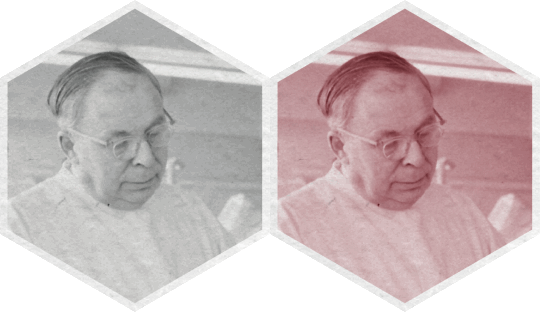
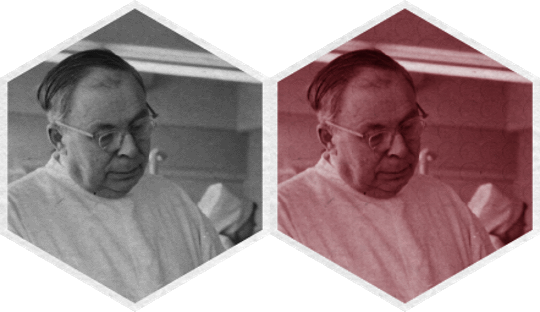
Headera attēli nomainās ar fade; Pievienota avīzes ikona; Samainītas nederīgās menu ikonas.

diff --git a/wp-content/themes/the-box/js/main.js b/wp-content/themes/the-box/js/main.js
@@ -11,10 +11,10 @@ $(window).load(function() {
         });
     }
     if(isMobile) preload([
-//        URLS.stylesheet + '/images/ui/mobile/readmore.png', URLS.stylesheet + '/images/ui/mobile/aboutvid.png', URLS.stylesheet + '/images/ui/mobile/archive.png', URLS.stylesheet + '/images/ui/mobile/audio.png', URLS.stylesheet + '/images/ui/mobile/citation.png', URLS.stylesheet + '/images/ui/mobile/closer.png', URLS.stylesheet + '/images/ui/mobile/continue.png', URLS.stylesheet + '/images/ui/mobile/draugiem.png', URLS.stylesheet + '/images/ui/mobile/fb.png', URLS.stylesheet + '/images/ui/mobile/gallery.png', URLS.stylesheet + '/images/ui/mobile/gallery_control.png', URLS.stylesheet + '/images/ui/mobile/gallery_counter.png', URLS.stylesheet + '/images/ui/mobile/gallery_loading.gif', URLS.stylesheet + '/images/ui/mobile/gplus.png', URLS.stylesheet + '/images/ui/mobile/header_pattern.png', URLS.stylesheet + '/images/ui/mobile/humor.png', URLS.stylesheet + '/images/ui/mobile/line_pattern.png', URLS.stylesheet + '/images/ui/mobile/menu_toggle.png', URLS.stylesheet + '/images/ui/mobile/navtree_bg.png', URLS.stylesheet + '/images/ui/mobile/navtree_bg1.png', URLS.stylesheet + '/images/ui/mobile/navtree_end.png', URLS.stylesheet + '/images/ui/mobile/objects.png', URLS.stylesheet + '/images/ui/mobile/popup_close.png', URLS.stylesheet + '/images/ui/mobile/readmore.png', URLS.stylesheet + '/images/ui/mobile/readmore_big.png', URLS.stylesheet + '/images/ui/mobile/slideout_bg.png', URLS.stylesheet + '/images/ui/mobile/slideout_bg_flip.png', URLS.stylesheet + '/images/ui/mobile/twitter.png'
+//        URLS.stylesheet + '/images/ui/mobile/readmore.png', URLS.stylesheet + '/images/ui/mobile/aboutvid.png', URLS.stylesheet + '/images/ui/mobile/archive.png', URLS.stylesheet + '/images/ui/mobile/audio.png', URLS.stylesheet + '/images/ui/mobile/citation.png', URLS.stylesheet + '/images/ui/mobile/magazine.png', URLS.stylesheet + '/images/ui/mobile/continue.png', URLS.stylesheet + '/images/ui/mobile/draugiem.png', URLS.stylesheet + '/images/ui/mobile/fb.png', URLS.stylesheet + '/images/ui/mobile/gallery.png', URLS.stylesheet + '/images/ui/mobile/gallery_control.png', URLS.stylesheet + '/images/ui/mobile/gallery_counter.png', URLS.stylesheet + '/images/ui/mobile/gallery_loading.gif', URLS.stylesheet + '/images/ui/mobile/gplus.png', URLS.stylesheet + '/images/ui/mobile/header_pattern.png', URLS.stylesheet + '/images/ui/mobile/humor.png', URLS.stylesheet + '/images/ui/mobile/line_pattern.png', URLS.stylesheet + '/images/ui/mobile/menu_toggle.png', URLS.stylesheet + '/images/ui/mobile/navtree_bg.png', URLS.stylesheet + '/images/ui/mobile/navtree_bg1.png', URLS.stylesheet + '/images/ui/mobile/navtree_end.png', URLS.stylesheet + '/images/ui/mobile/objects.png', URLS.stylesheet + '/images/ui/mobile/popup_close.png', URLS.stylesheet + '/images/ui/mobile/readmore.png', URLS.stylesheet + '/images/ui/mobile/readmore_big.png', URLS.stylesheet + '/images/ui/mobile/slideout_bg.png', URLS.stylesheet + '/images/ui/mobile/slideout_bg_flip.png', URLS.stylesheet + '/images/ui/mobile/twitter.png'
     ]);
     else preload([
-        URLS.stylesheet + '/images/ui/readmore_big.png', URLS.stylesheet + '/images/ui/aboutvid.png', URLS.stylesheet + '/images/ui/archive.png', URLS.stylesheet + '/images/ui/audio.png', URLS.stylesheet + '/images/ui/citation.png', URLS.stylesheet + '/images/ui/closer.png', URLS.stylesheet + '/images/ui/continue.png', URLS.stylesheet + '/images/ui/draugiem.png', URLS.stylesheet + '/images/ui/fb.png', URLS.stylesheet + '/images/ui/gallery.png', URLS.stylesheet + '/images/ui/gallery_control.png', URLS.stylesheet + '/images/ui/gallery_counter.png', URLS.stylesheet + '/images/ui/gallery_loading.gif', URLS.stylesheet + '/images/ui/gplus.png', URLS.stylesheet + '/images/ui/header_pattern.png', URLS.stylesheet + '/images/ui/humor.png', URLS.stylesheet + '/images/ui/line_pattern.png', URLS.stylesheet + '/images/ui/menu_toggle.png', URLS.stylesheet + '/images/ui/navtree_bg.png', URLS.stylesheet + '/images/ui/navtree_bg1.png', URLS.stylesheet + '/images/ui/navtree_end.png', URLS.stylesheet + '/images/ui/objects.png', URLS.stylesheet + '/images/ui/popup_close.png', URLS.stylesheet + '/images/ui/readmore.png', URLS.stylesheet + '/images/ui/readmore_big.png', URLS.stylesheet + '/images/ui/slideout_bg.png', URLS.stylesheet + '/images/ui/slideout_bg_flip.png', URLS.stylesheet + '/images/ui/twitter.png'
+        URLS.stylesheet + '/images/ui/readmore_big.png', URLS.stylesheet + '/images/ui/aboutvid.png', URLS.stylesheet + '/images/ui/archive.png', URLS.stylesheet + '/images/ui/audio.png', URLS.stylesheet + '/images/ui/citation.png', URLS.stylesheet + '/images/ui/magazine.png', URLS.stylesheet + '/images/ui/continue.png', URLS.stylesheet + '/images/ui/draugiem.png', URLS.stylesheet + '/images/ui/fb.png', URLS.stylesheet + '/images/ui/gallery.png', URLS.stylesheet + '/images/ui/gallery_control.png', URLS.stylesheet + '/images/ui/gallery_counter.png', URLS.stylesheet + '/images/ui/gallery_loading.gif', URLS.stylesheet + '/images/ui/gplus.png', URLS.stylesheet + '/images/ui/header_pattern.png', URLS.stylesheet + '/images/ui/humor.png', URLS.stylesheet + '/images/ui/line_pattern.png', URLS.stylesheet + '/images/ui/menu_toggle.png', URLS.stylesheet + '/images/ui/navtree_bg.png', URLS.stylesheet + '/images/ui/navtree_bg1.png', URLS.stylesheet + '/images/ui/navtree_end.png', URLS.stylesheet + '/images/ui/objects.png', URLS.stylesheet + '/images/ui/popup_close.png', URLS.stylesheet + '/images/ui/readmore.png', URLS.stylesheet + '/images/ui/readmore_big.png', URLS.stylesheet + '/images/ui/slideout_bg.png', URLS.stylesheet + '/images/ui/slideout_bg_flip.png', URLS.stylesheet + '/images/ui/twitter.png'
     ]);
 
     // console.log(URLS.stylesheet);
@@ -413,7 +413,7 @@ function mInit() {
             else if (popupBtn.hasClass('humor')){
                 $('#colorbox .citation_logo').attr('id', 'humicon');
             }
-            else if (popupBtn.hasClass('closer')){
+            else if (popupBtn.hasClass('magazine')){
                 $('#colorbox .citation_logo').attr('id', 'cloicon');
             }
             else if(popupBtn.hasClass('aboutvid')){
@@ -570,7 +570,7 @@ function mInit() {
             else if (popupBtn.hasClass('humor')){
                 $('.lg-outer .citation_logo').attr('id', 'humicon');
             }
-            else if (popupBtn.hasClass('closer')){
+            else if (popupBtn.hasClass('magazine')){
                 $('.lg-outer .citation_logo').attr('id', 'cloicon');
             }
         $('.lg-close').detach().appendTo($('.lg-backdrop.in'));

diff --git a/wp-content/plugins/dynamicContent/js/content.js b/wp-content/plugins/dynamicContent/js/content.js
@@ -526,8 +526,6 @@ var Content = Class.extend({
                 bgElem.css('background-image', 'url(' + URLS.stylesheet + '/images/background/mobile/' + item.post_name + '.jpg)');
             } else if (item.template === "templates/menu.php" || item.template === "templates/menu2.php") {
                 bgElem.css('background-image', 'url(' + URLS.stylesheet + '/images/background/mobile/mcardboard.jpg)');
-            } else if (~item.post_name.indexOf('dzimta')) {
-                bgElem.css('background-image', 'url(' + URLS.stylesheet + '/images/background/mobile/dzimta.jpg)');
             } else if (item.template === 'templates/video.php') {
                 var iframe = $('iframe:first');
                 var iframe_src = iframe.attr('src');
@@ -544,7 +542,8 @@ var Content = Class.extend({
             } else bgElem.css('background-image', 'none');
         }
         else{
-            var bgElem = $('.head_image div.layer');
+            var bgElem = $('.head_image div.layer.inactive');
+            var bgAct = $('.head_image div.layer.active');
             if(bgElem.length){
                 if(dynamicContent.getByMenuID(item.menu_item_parent)) var parent = dynamicContent.getByMenuID(item.menu_item_parent);
                 else var parent = dynamicContent.getItemByUrl('titullapa');
@@ -571,6 +570,12 @@ var Content = Class.extend({
                 }
                 else bgElem.css('background-image', 'url(' + URLS.stylesheet + '/images/background/default.jpg)');
             }
+            bgElem.css('opacity', 1);
+            setTimeout(function(){bgAct.css('opacity', 0);}, 750);
+            bgElem.removeClass('inactive');
+            bgAct.removeClass('active');
+            bgElem.addClass('active');
+            bgAct.addClass('inactive');
         }
     },
     setMobilePopups: function(){
@@ -606,9 +611,9 @@ var Content = Class.extend({
                 $('#popupbar li:has(a.humor').hide();
                 $('#popupbar').append('<li><div class="humor obj_icon" data-class="humor"></div></li>'); 
             }
-            if ($('#popupbar a.closer').length>1){
-                $('#popupbar li:has(a.closer)').hide();
-                $('#popupbar').append('<li><div class="humor obj_icon" data-class="closer"></div></li>'); 
+            if ($('#popupbar a.magazine').length>1){
+                $('#popupbar li:has(a.magazine)').hide();
+                $('#popupbar').append('<li><div class="humor obj_icon" data-class="magazine"></div></li>'); 
             }
             var mainIcon = $('.icon_midleft, .icon_midright, .icon_topright, .icon_topmid, .icon_topleft, .icon_botleft, .icon_botright, .icon_botmid, .icon_belowtopright, .icon_belowtopleft');
             if(mainIcon.hasClass('gallery')){
@@ -626,8 +631,8 @@ var Content = Class.extend({
             else if(mainIcon.hasClass('humor')){
                  $('#popupbar li:has(a.humor)').detach().prependTo($('#popupbar'));
             }
-            else if(mainIcon.hasClass('closer')){
-                 $('#popupbar li:has(a.closer)').detach().prependTo($('#popupbar'));
+            else if(mainIcon.hasClass('magazine')){
+                 $('#popupbar li:has(a.magazine)').detach().prependTo($('#popupbar'));
             }
                 
                 
@@ -660,7 +665,7 @@ var Content = Class.extend({
                     else if (classname === "humor"){
                         $('#popupgroup .citation_logo').attr('id', 'humicon');
                     }
-                    else if (classname === "closer"){
+                    else if (classname === "magazine"){
                         $('#popupgroup .citation_logo').attr('id', 'cloicon');
                     }
                     else if (classname === "audio"){

diff --git a/wp-content/themes/the-box-child/style.css b/wp-content/themes/the-box-child/style.css
@@ -480,12 +480,19 @@ p{
     z-index: 2;
     text-align: center;
 }
-.head_image div{
+.head_image div.layer{
+    width: 110%;
     background: url(images/background/default.jpg);
     background-position: center;   
     background-size: cover;
     top: -25% !important;
     height: 150%;
+     -webkit-transition: opacity 750ms;
+    transition: opacity 750ms;
+}
+.head_image div.inactive{
+    opacity: 0;
+    width: 110%;
 }
 
 .head_image_bot{
@@ -1212,8 +1219,8 @@ a.obj_icon[data-title]:hover:after{
     left: 10vw !important;
 }
 
-a.closer, div.closer{
-    background-image: url('images/ui/closer.png');   
+a.magazine, div.magazine{
+    background-image: url('images/ui/magazine.png');   
 }
 
 a.gallery, div.gallery{

diff --git a/wp-content/themes/the-box-child/header.php b/wp-content/themes/the-box-child/header.php
@@ -183,7 +183,8 @@ else
                     </div> -->
                 </span>
 
-            <div class="layer" data-depth="0.3"></div>
+            <div class="layer active" data-depth="0.3"></div>
+            <div class="layer inactive" data-depth="0.3"></div>
         </div>
         <div class="head_image_bot">
             <ul class="social">
